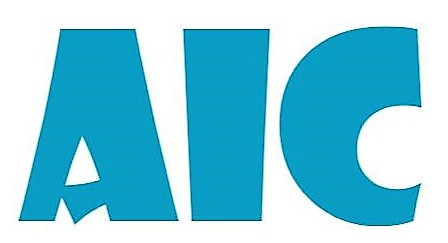
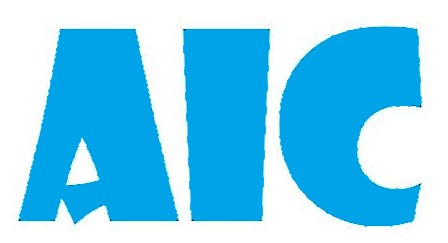
small fix on pic color and menu

diff --git a/index.html b/index.html
@@ -34,9 +34,6 @@
 					WELECOME TO ARTIFICIAL INTELLIGENCE CONSTRUCTION SITE
 				</h1>
 				<img src="assets/installation01.png" style="width: 100%;">
-				<p style="font-size: 25px;padding-left: 20px;padding-bottom:20px;color: rgba(44, 143, 209, 0.87);font-family: Consolas">
-					<strong>curiosity and exploration never dies</strong>
-				</p>
 			</article>
 
 			<article id="tensorflow_section">
@@ -50,14 +47,14 @@
 				</ul>
 			</article>
 
-			<article>
+			<article id="numpy_section">
 				<h2>Basic Numpy</h2>
 				<ul class="sectionContentList">
 					<li>softmax</li>
 				</ul>
 			</article>
 
-			<article>
+			<article id="kaggle_section">
 				<h2>Kaggle</h2>
 				<ul class="sectionContentList">
 					<li>digitRecognization</li>
@@ -65,7 +62,7 @@
 				</ul>
 			</article>
 
-			<article>
+			<article id="interesting_gitrepo_section">
 				<h2>Other interesting github repositories</h2>
 				<ul class="sectionContentList">
 					<li><a href="https://github.com/exacity/deeplearningbook-chinese">deeplearningbook-chinese</a></li>
@@ -75,11 +72,6 @@
 					<li><a href="https://github.com/jiqizhixin/AI-Terminology-page">AI-Terminology-page</a> (same content as above, but difference display)</li>
 				</ul>
 			</article>
-
-			<article>
-				<img src="assets/titanicCorrelationMap.png" alt="loading picture..." width="100%">
-				<h3>This is a correlation map of the data from titanic accident</h3>
-			</article>
 		</div>
 
 		<!-- padding-top: 0px is especially for this sidebar since a drawing will be put on it -->
@@ -87,8 +79,10 @@
 			<img src="assets/installation01_sketch.png" style="width: 100%">
 			<div>
 				<h3>MENU</h3>
-				<a href="#tensorflow_section">tensorflow section</a>
-				
+				<a href="#tensorflow_section">tensorflow section</a><br>
+				<a href="#numpy_section">numpy section</a><br>
+				<a href="#kaggle_section">kaggle section</a><br>
+				<a href="#interesting_gitrepo_section">interesting gitrepo section</a>
 			</div>
 		</aside>
 	</div>
